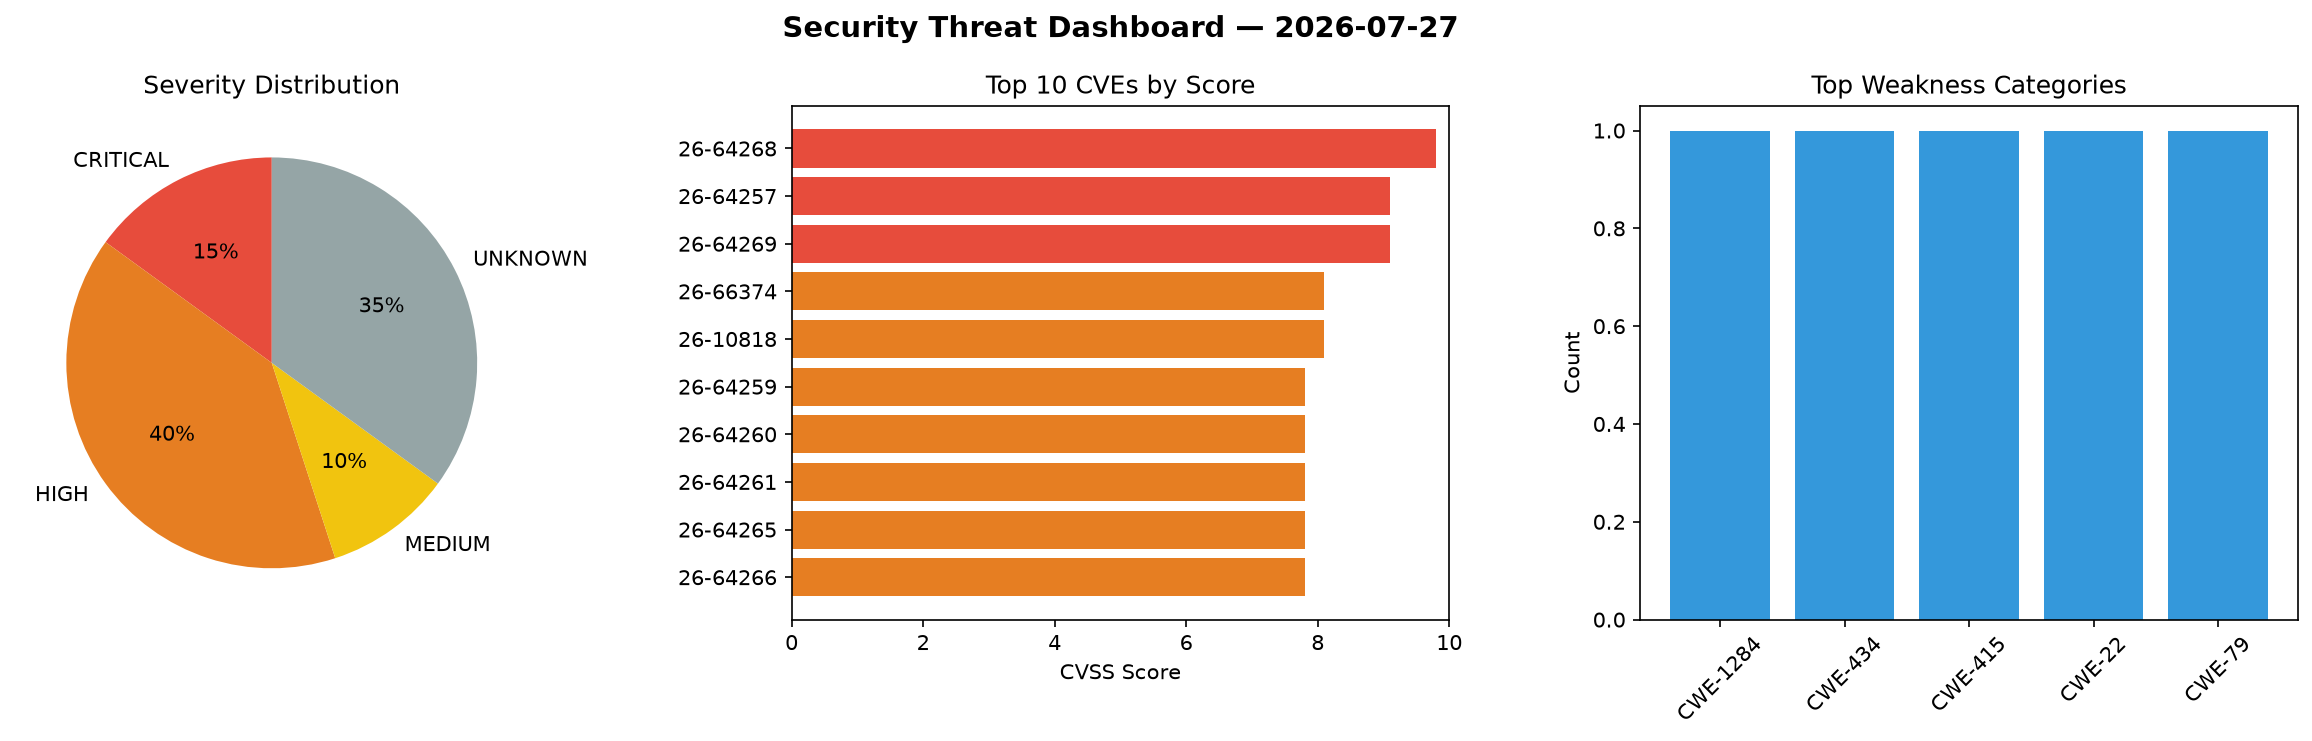
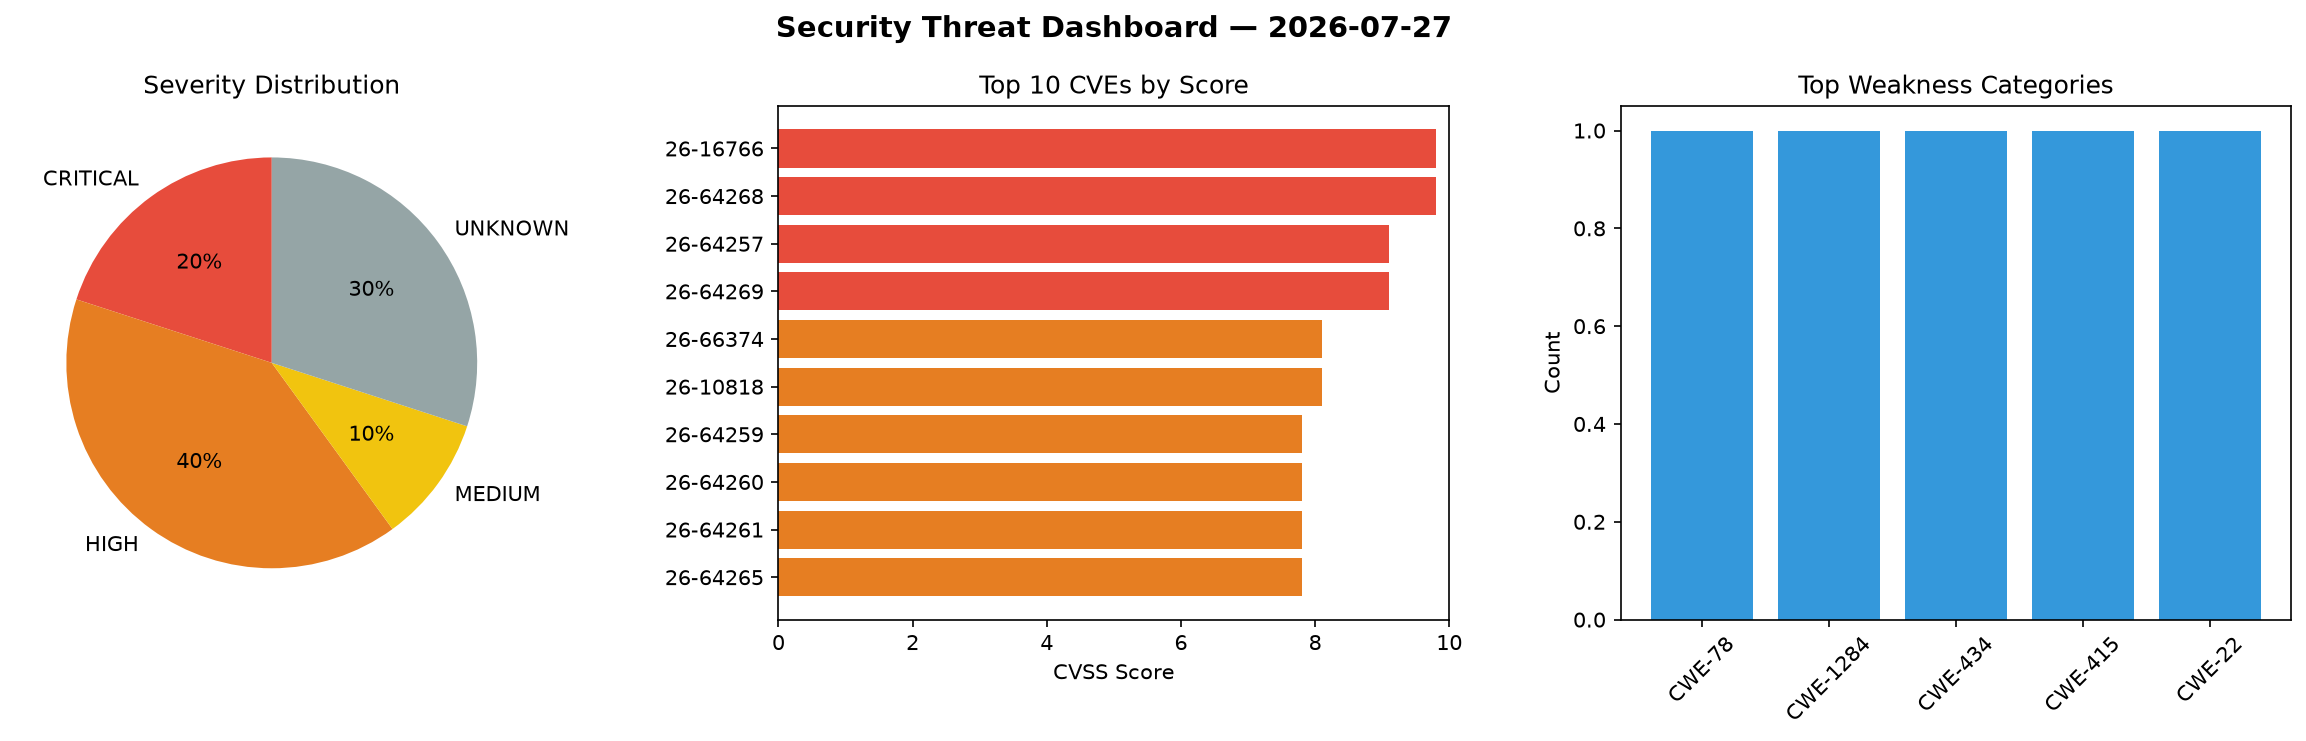
daily-experiments: security scan 2026-07-27T16:35

diff --git a/logs/2026-07-27.md b/logs/2026-07-27.md
@@ -1,6 +1,6 @@
 # Security Scan Report — 2026-07-27
 
-**Scan ID:** `de0a7aa073` | **CVEs:** 20 | **Threat Index:** 325.9
+**Scan ID:** `18fd913a52` | **CVEs:** 20 | **Threat Index:** 365.1
 
 ![Dashboard](2026-07-27_dashboard.png)
 
@@ -10,35 +10,36 @@
 
 | Metric | Value |
 |--------|-------|
-| Threat Index | 325.9 |
-| Critical CVEs | 3 |
-| CRITICAL | 3 |
+| Threat Index | 365.1 |
+| Critical CVEs | 4 |
+| CRITICAL | 4 |
 | HIGH | 8 |
 | MEDIUM | 2 |
-| UNKNOWN | 7 |
+| UNKNOWN | 6 |
 
 ## Delta vs Yesterday
 
 | Metric | Today | Yesterday | Change |
 |--------|-------|-----------|--------|
 | total_cves | 20 | 20 | ➡ 0.0% |
-| threat_index | 325.9 | 475.1 | 📉 -31.4% |
-| critical_count | 3 | 7 | 📉 -57.1% |
+| threat_index | 365.1 | 475.1 | 📉 -23.2% |
+| critical_count | 4 | 7 | 📉 -42.9% |
 
 ## Top Weakness Categories
 
 | CWE | Count |
 |-----|-------|
+| CWE-78 | 1 |
 | CWE-1284 | 1 |
 | CWE-434 | 1 |
 | CWE-415 | 1 |
 | CWE-22 | 1 |
-| CWE-79 | 1 |
 
 ## CVE Details
 
 | CVE ID | Score | Severity | Description |
 |--------|-------|----------|-------------|
+| CVE-2026-16766 | 9.8 | CRITICAL | Catalyst::View::Wkhtmltopdf versions before 0.6.1 for Perl allow shell command i... |
 | CVE-2026-64268 | 9.8 | CRITICAL | In the Linux kernel, the following vulnerability has been resolved:
 
 RDMA/siw: b... |
@@ -68,7 +69,6 @@ fuse: re-lo... |
 | CVE-2026-66373 | 7.5 | HIGH | Redis before 8.8.0, in the unusual case where an authenticated attacker can exec... |
 | CVE-2026-14955 | 6.5 | MEDIUM | The Checkout Field Editor for WooCommerce (Pro) plugin for WordPress is vulnerab... |
 | CVE-2026-15425 | 6.4 | MEDIUM | The Yoast SEO – Advanced SEO with real-time guidance and built-in AI plugin for ... |
-| CVE-2026-16766 | 0.0 | UNKNOWN | Catalyst::View::Wkhtmltopdf versions before 0.6.1 for Perl allow shell command i... |
 | CVE-2026-64256 | 0.0 | UNKNOWN | In the Linux kernel, the following vulnerability has been resolved:
 
 xfs: don't ... |
